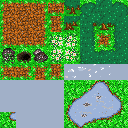
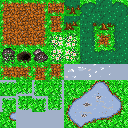
Fix server NPE

Changed region(s): [[0.0, 0.625, 0.5, 0.875]]

diff --git a/core/src/com/slimequest/game/SlimeQuestGame.java b/core/src/com/slimequest/game/SlimeQuestGame.java
@@ -20,6 +20,7 @@ import com.badlogic.gdx.utils.Align;
 import com.slimequest.game.events.GameNetworkCreateObjectEvent;
 import com.slimequest.game.events.GameNetworkEditTeleportTargetEvent;
 import com.slimequest.game.events.GameNetworkRemoveObjectEvent;
+import com.slimequest.game.game.Carrot;
 import com.slimequest.game.game.MapObject;
 import com.slimequest.game.game.MapTile;
 import com.slimequest.game.game.Player;
@@ -623,7 +624,8 @@ public class SlimeQuestGame extends ApplicationAdapter implements InputProcessor
 
             if (mapObject != null) {
                 if (Teleport.class.isAssignableFrom(mapObject.getClass()) ||
-                        Sign.class.isAssignableFrom(mapObject.getClass())) {
+                        Sign.class.isAssignableFrom(mapObject.getClass()) ||
+                        Carrot.class.isAssignableFrom(mapObject.getClass())) {
                     Game.world.remove(mapObject.id);
                     Game.networking.send(new GameNetworkRemoveObjectEvent(mapObject));
                 }

diff --git a/server/src/com/slimequest/server/game/Teleport.java b/server/src/com/slimequest/server/game/Teleport.java
@@ -28,7 +28,9 @@ public class Teleport extends MapObject {
     public JsonObject fossilize() {
         JsonObject fossil = super.fossilize();
 
-        fossil.add("target", new JsonPrimitive(target));
+        if (target != null) {
+            fossil.add("target", new JsonPrimitive(target));
+        }
 
         return fossil;
     }
@@ -36,7 +38,10 @@ public class Teleport extends MapObject {
     @Override
     public void defossilize(JsonObject fossil) {
         super.defossilize(fossil);
-        target = fossil.get("target").getAsString();
+
+        if (fossil.has("target")) {
+            target = fossil.get("target").getAsString();
+        }
     }
 
     @Override

diff --git a/shared/src/main/java/com/slimequest/shared/MapTiles.java b/shared/src/main/java/com/slimequest/shared/MapTiles.java
@@ -53,6 +53,12 @@ public class MapTiles {
         grassy.add(5007);
         grassy.add(6007);
 
+        // Clouds
+        grassy.add(4004);
+        grassy.add(4005);
+        grassy.add(4006);
+        grassy.add(4007);
+
         Set<Integer> underground = new HashSet<>();
         collideTiles.add(underground);
 

diff --git a/core/src/com/slimequest/game/Game.java b/core/src/com/slimequest/game/Game.java
@@ -89,6 +89,6 @@ public class Game {
 
     // local
     static {
-        serverAddress = "192.168.0.107";
+//        serverAddress = "192.168.0.107";
     }
 }
